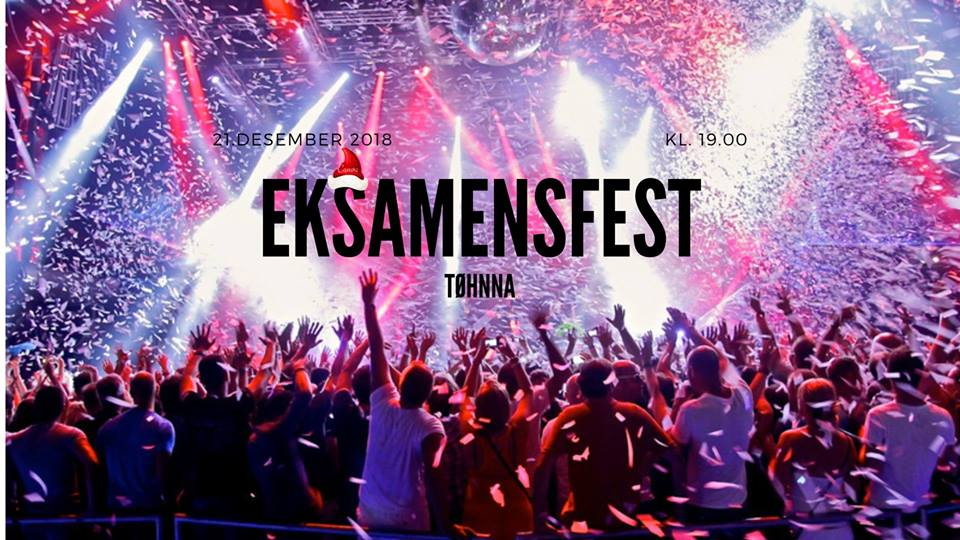
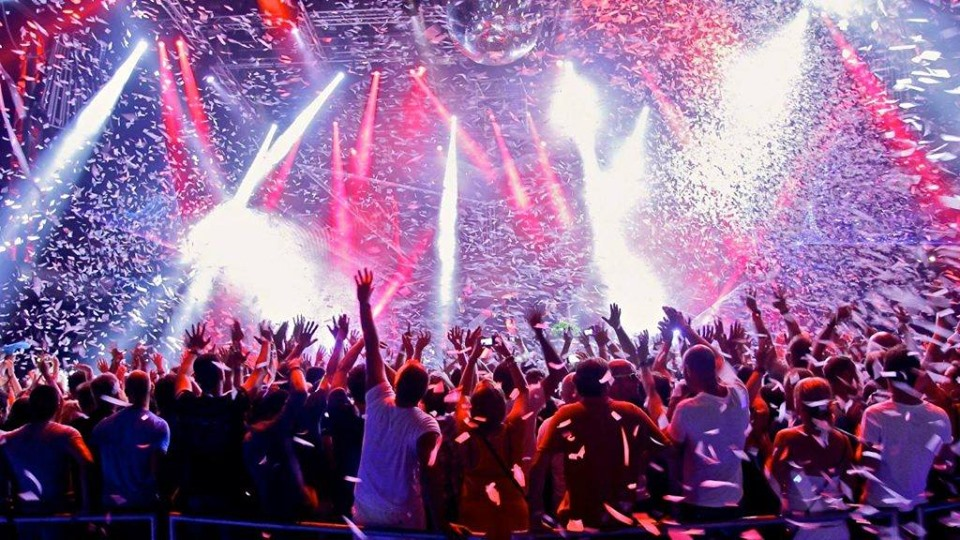
h

diff --git a/P3/kommende_arrangementer.html b/P3/kommende_arrangementer.html
@@ -18,12 +18,21 @@
         <p>Påmelding</p>
     </section>
     <section>
-            <img src="./" alt="nu_julebord">
+            <img src="./img/quiz.png" alt="quiz">
             <p>14.november</p>
             <header>
-                <h2>NU-julebord</h2>
+                <h2>Tøhnna-quiz</h2>
             </header>
             <p>Påmelding</p>
         </section>
+        <section>
+                <img src="./img/eksamensfest.jpg" alt="quiz">
+                <p>21.desember</p>
+                <header>
+                    <h2>Eksamensfest</h2>
+                </header>
+                <p>Påmelding</p>
+            </section>
+    
 </body>
 </html>
